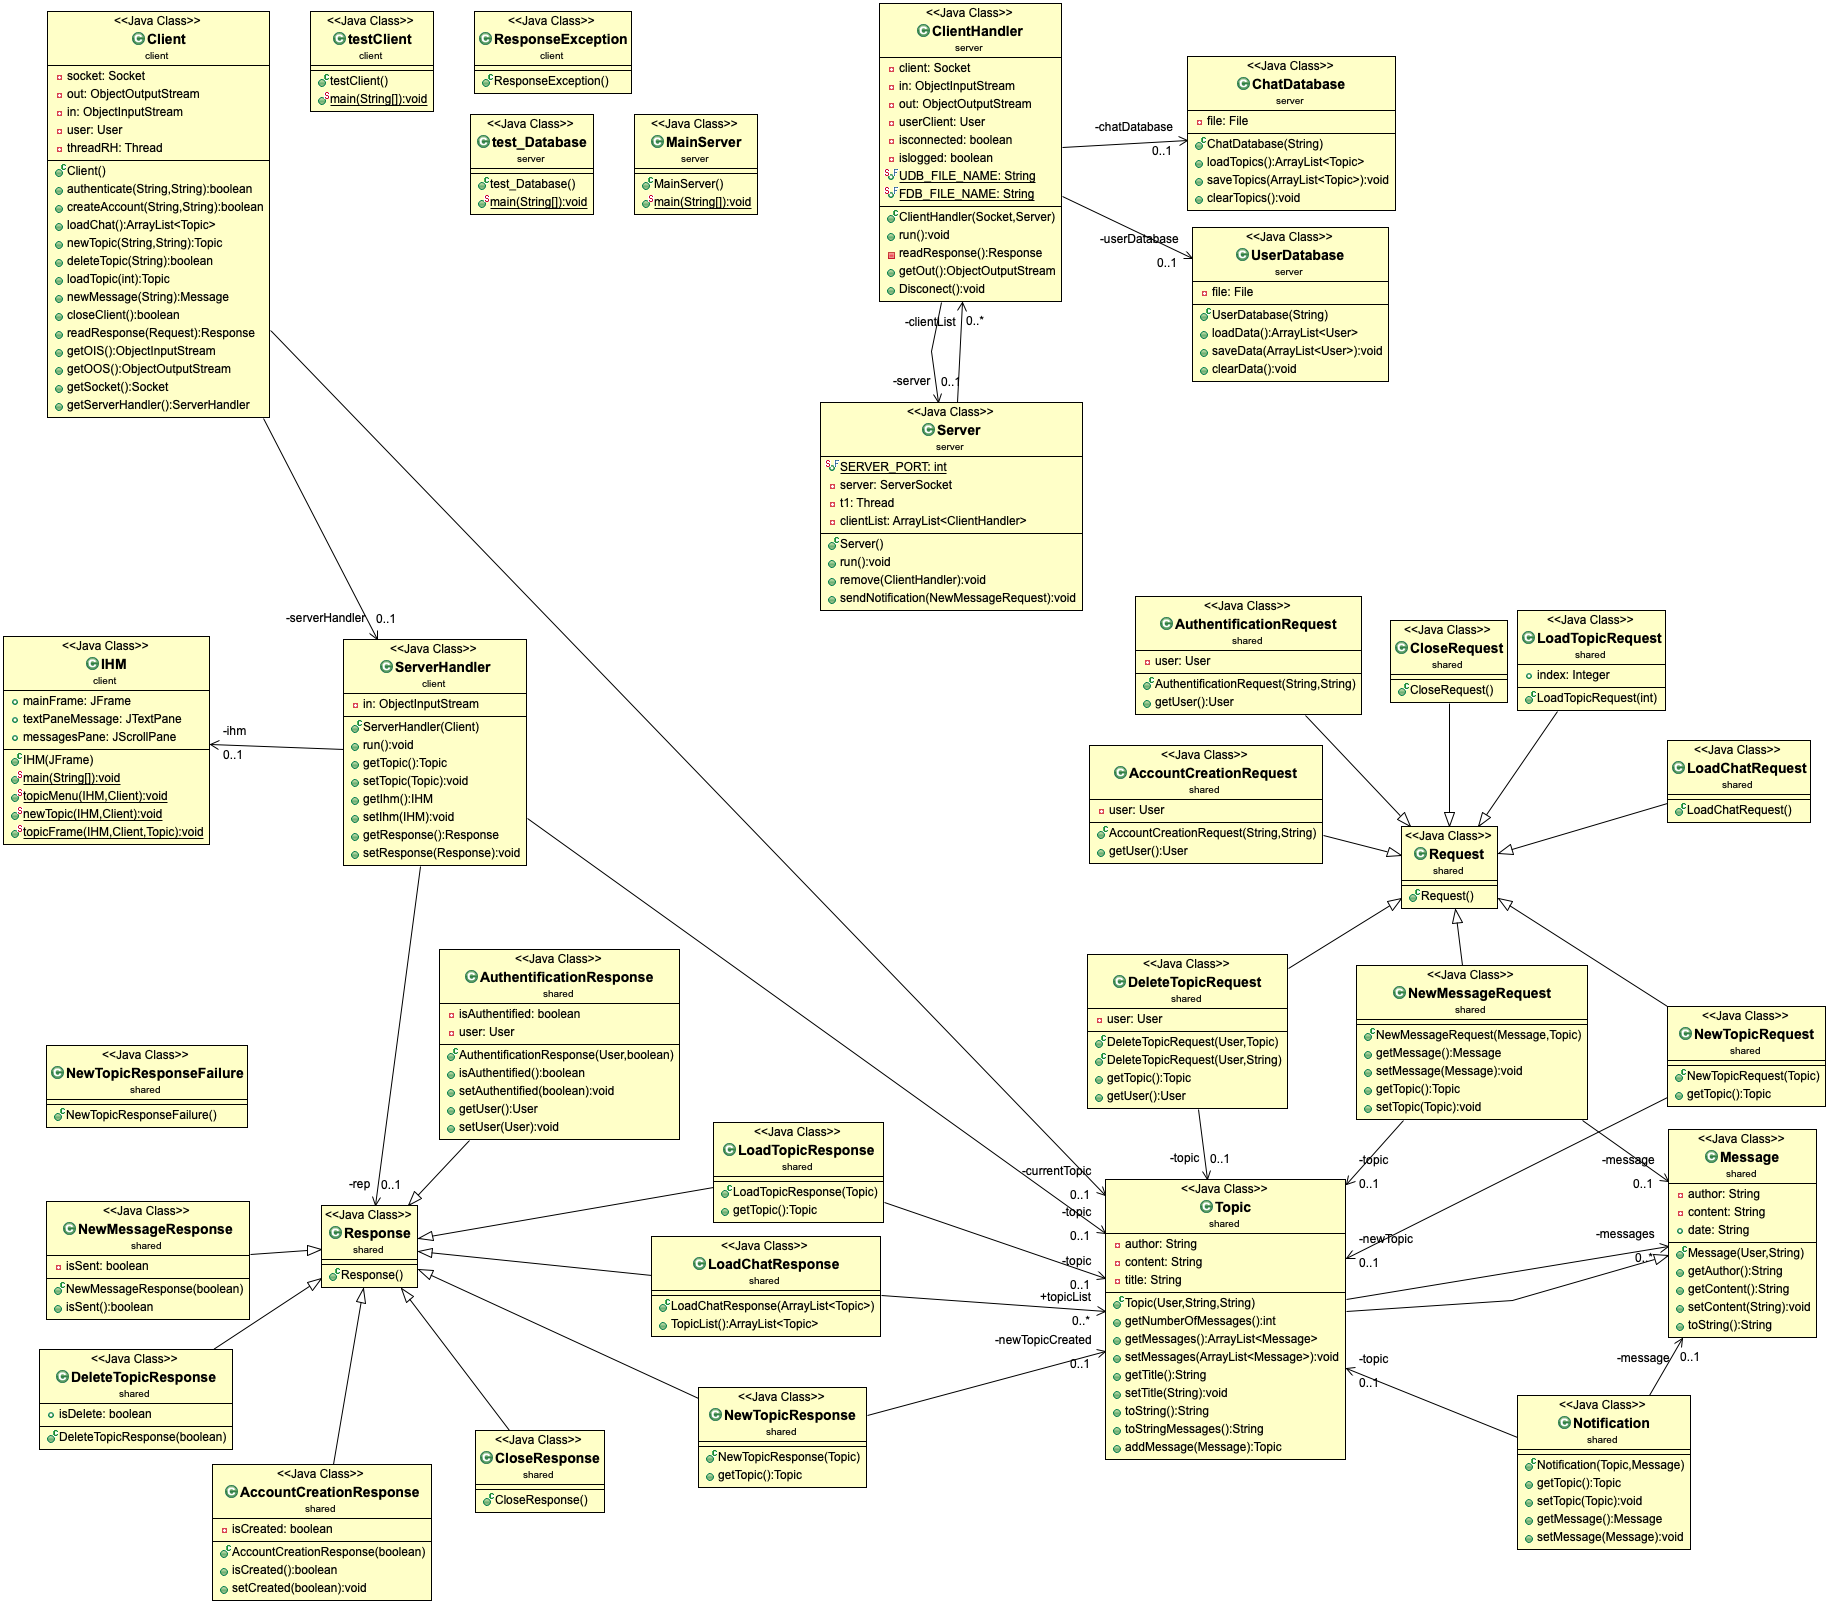
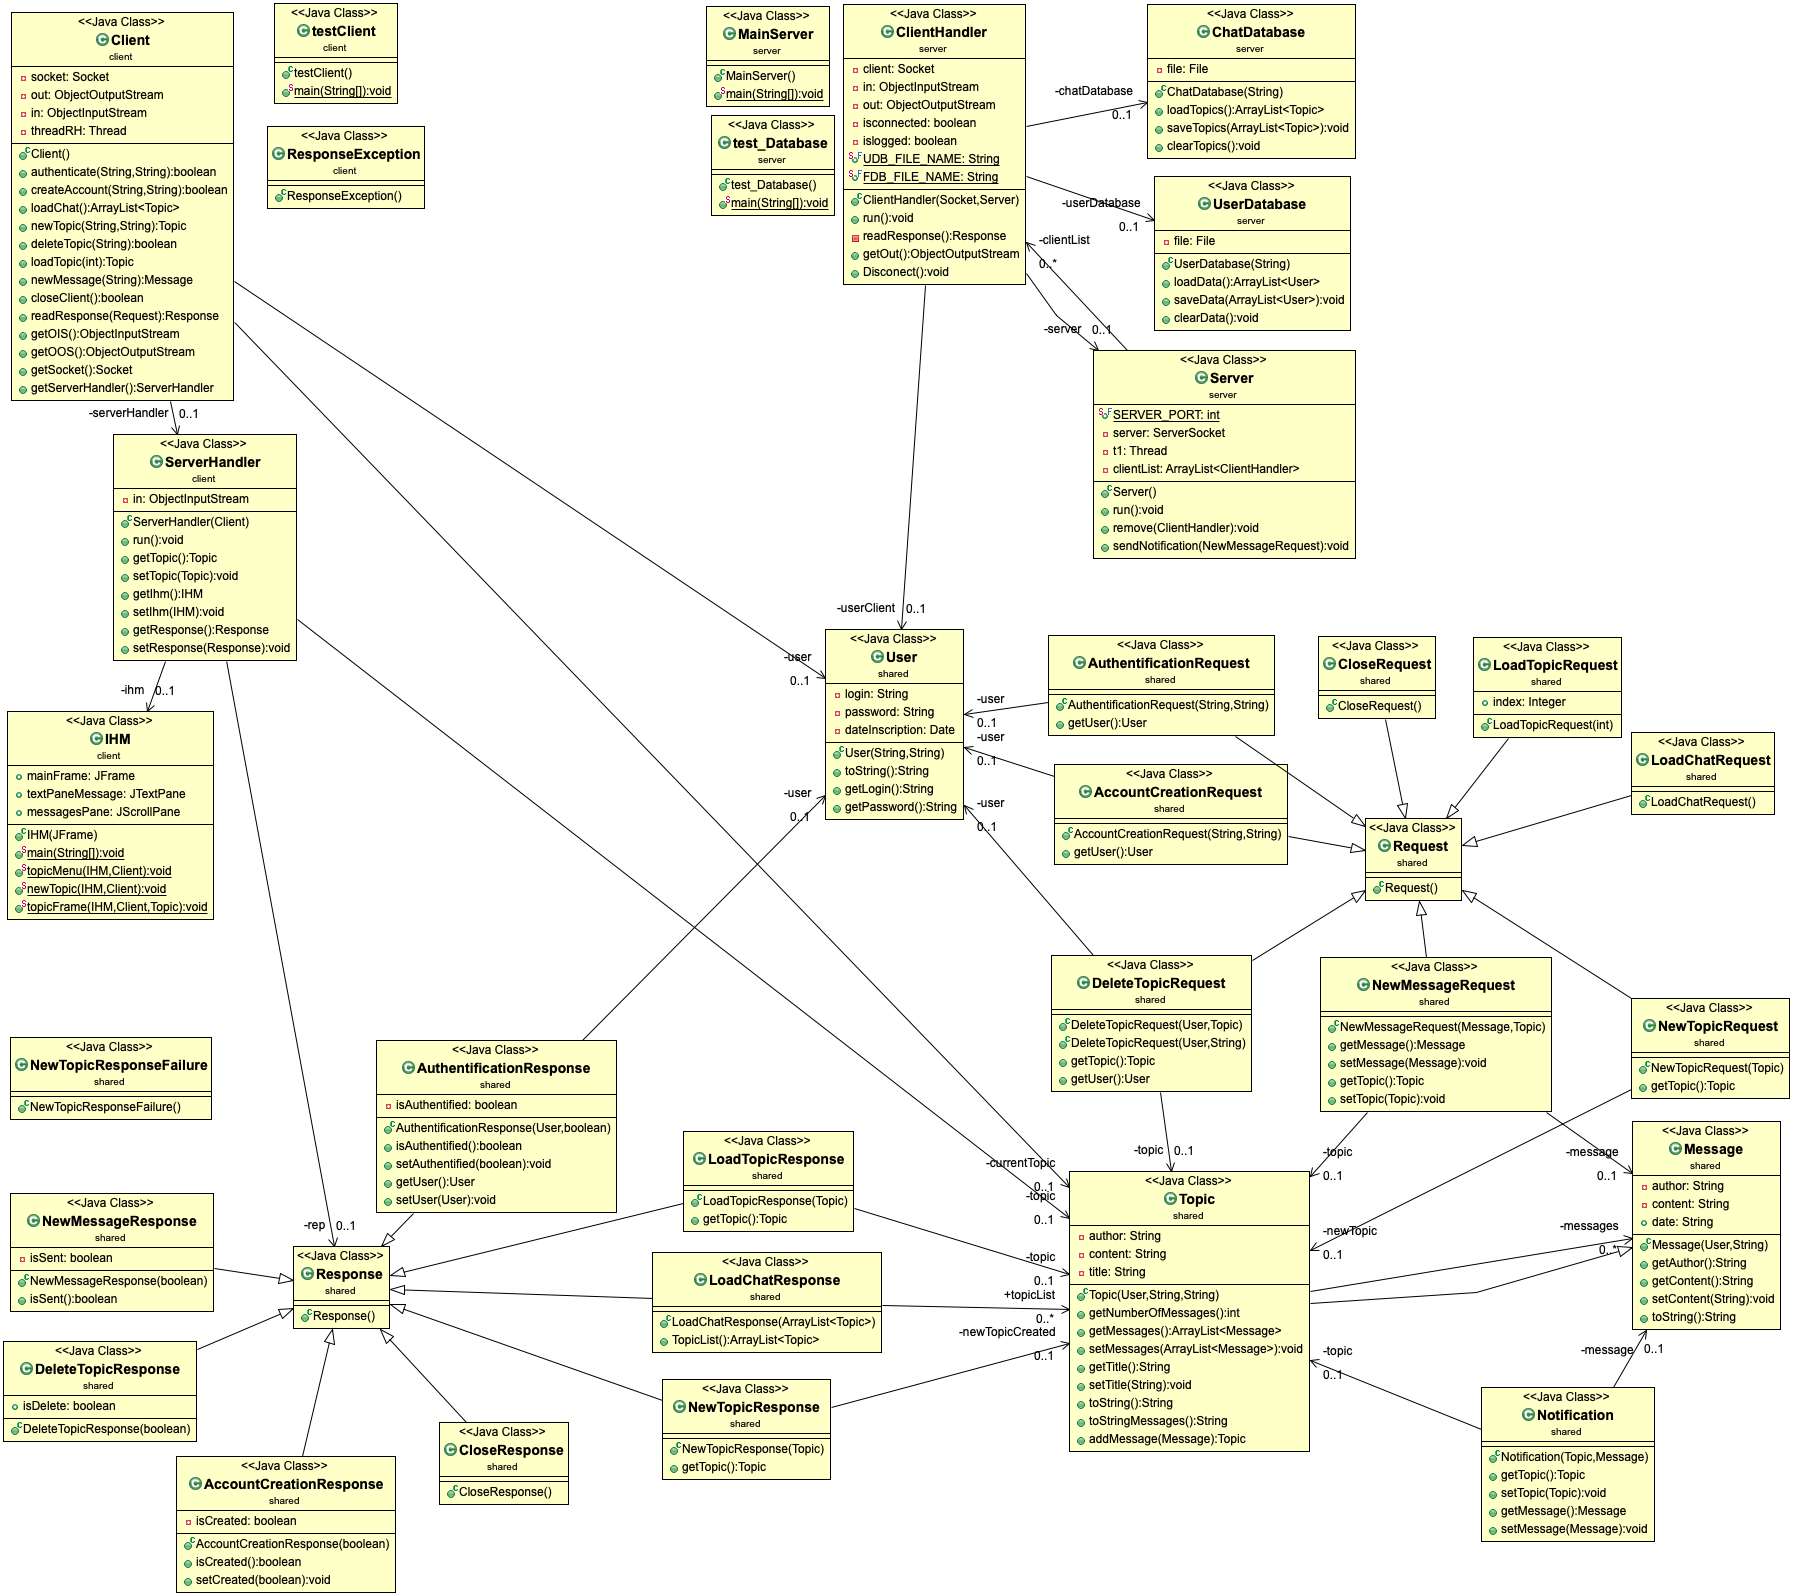
correction probleme package

diff --git a/src/server/test_Database.java b/src/server/test_Database.java
@@ -15,11 +15,9 @@ public class test_Database {
 		// TODO Auto-generated method stub
 
 		ArrayList<User> list_user = new ArrayList<User>();
-		User user1 = new User("pierre", "123");
-		User user2 = new User("celestin", "123");
-		list_user.add(user1);
-		list_user.add(user2);
 		
+		UserDatabase userl = new UserDatabase("userdatabase.db");
+
 		ArrayList<Topic> list_topic = new ArrayList<Topic>();
 
 		//Topic topic1 = new Topic(user1, "Règles du chat", "Il n'y a pas de règles sur le chat.");
@@ -30,7 +28,7 @@ public class test_Database {
 		//list_topic.add(topic1);
 		//list_topic.add(topic2);
 	//	System.out.println(topic1.toString());
-		System.out.println("chatdatabase écrasée");
+		System.out.println("databases écrasées");
 
 		ChatDatabase chat = new ChatDatabase("chatdatabase.db");
 	//	chat.clearTopics();
@@ -38,6 +36,7 @@ public class test_Database {
 				
 		try {
 			chat.saveTopics(list_topic);
+			userl.saveData(list_user);
 		} catch (IOException e1) {
 			// TODO Auto-generated catch block
 			e1.printStackTrace();

diff --git a/src/server/ClientHandler.java b/src/server/ClientHandler.java
@@ -1,4 +1,5 @@
 package server;
+
 import java.io.IOException;
 import java.io.ObjectInputStream;
 import java.io.ObjectOutputStream;
@@ -10,7 +11,6 @@ import java.util.stream.Collectors;
 import javax.xml.crypto.Data;
 
 import shared.*;
-import  shared.User;
 
 /*
 	thread qui communique avec le client
@@ -239,6 +239,7 @@ public class ClientHandler implements Runnable {
 
 	public void Disconect() {
 		this.isconnected=false;
+		Thread.currentThread().interrupt();
 	}
 
 }
